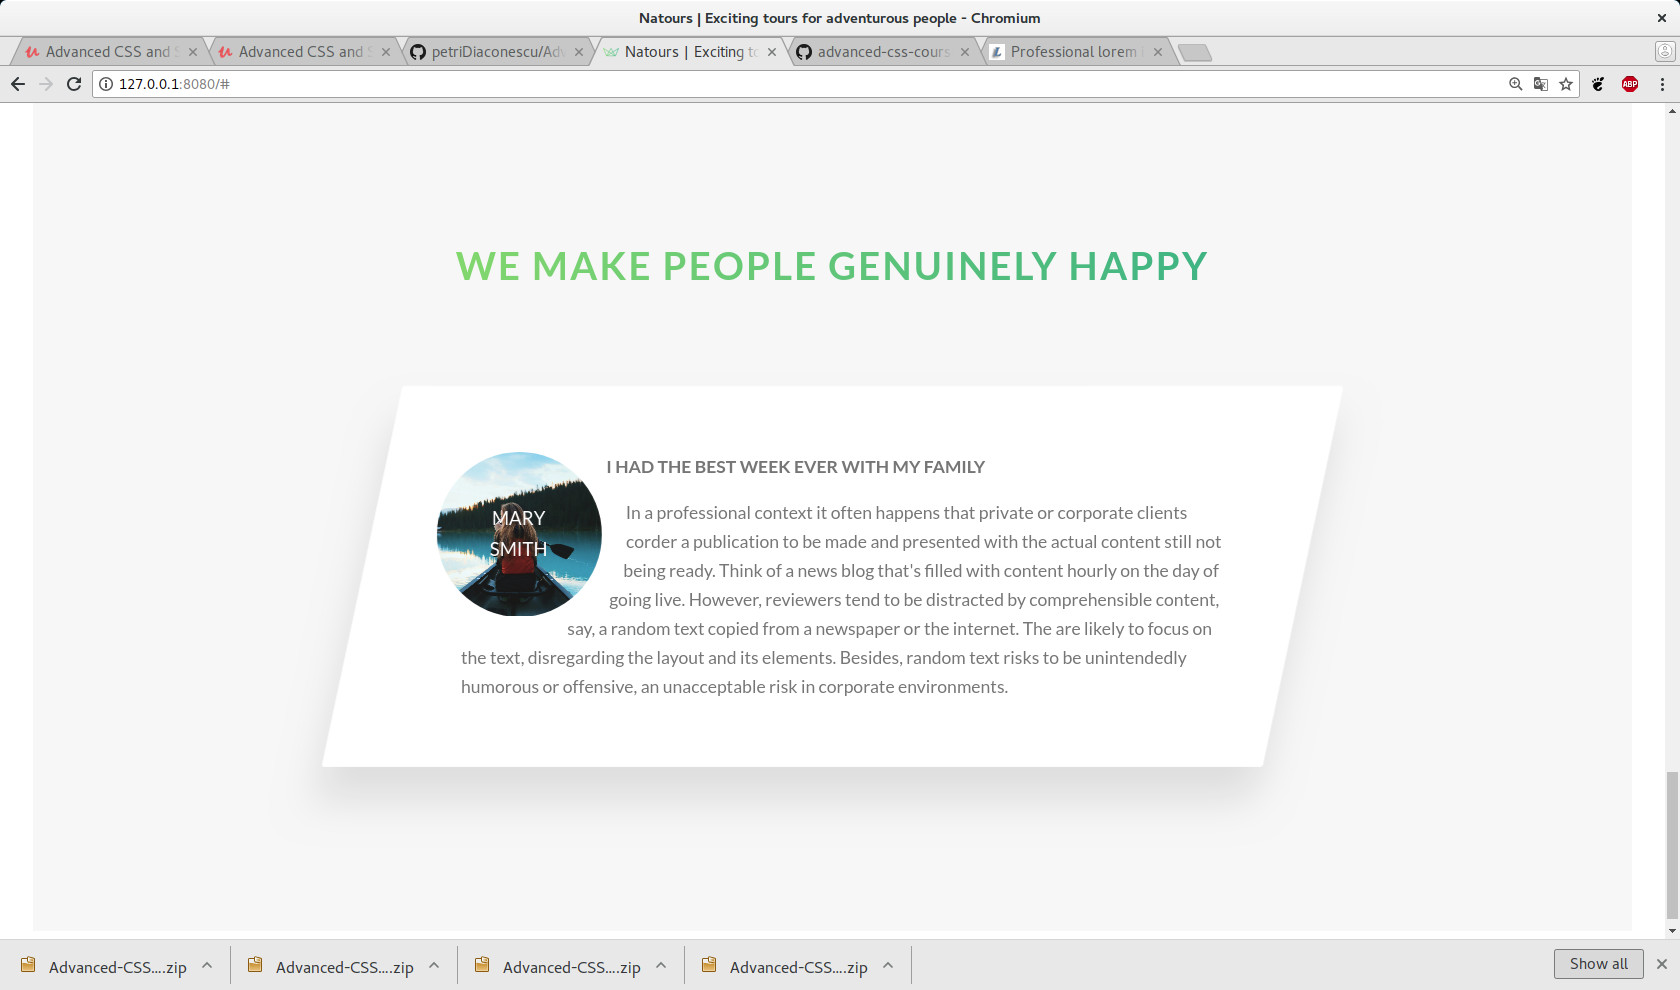
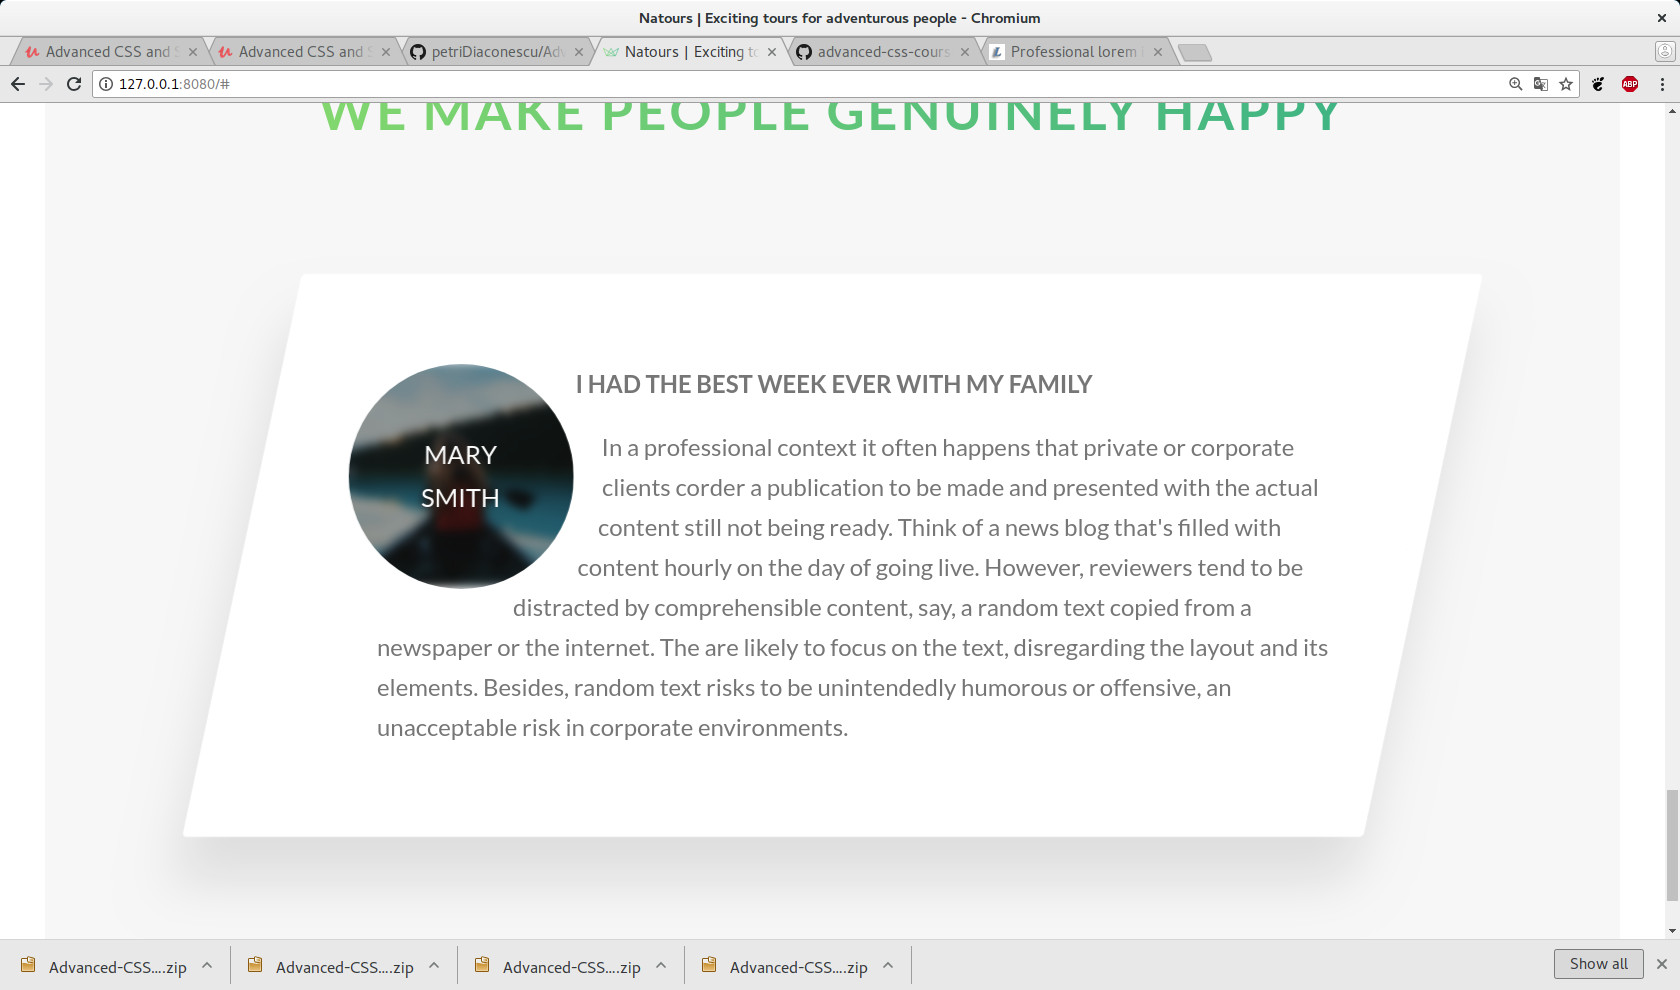
Apply filters on hover over story component. Blur the image and darken the image in the same time. If we brightness filter values over 100% the image will be brighter, otherwise more darken like in our case.

diff --git a/sass/components/_stories.scss b/sass/components/_stories.scss
@@ -55,7 +55,8 @@
   }
   
   &:hover &__img {
-    transform: translateX(-4rem) scale(1)
+    transform: translateX(-4rem) scale(1);
+    filter: blur(3px) brightness(60%);
   }
 }
 
